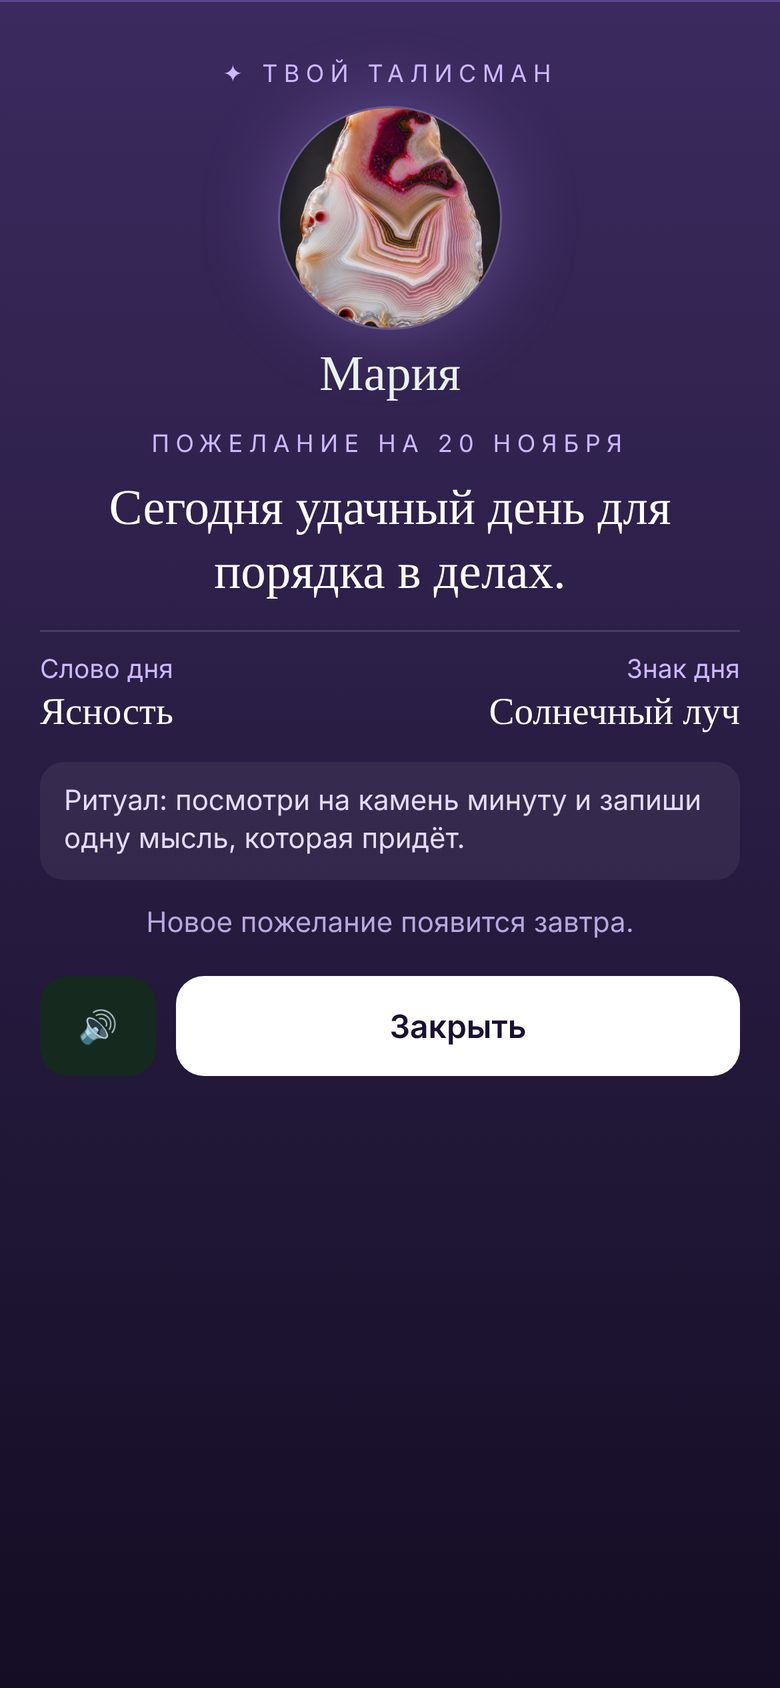
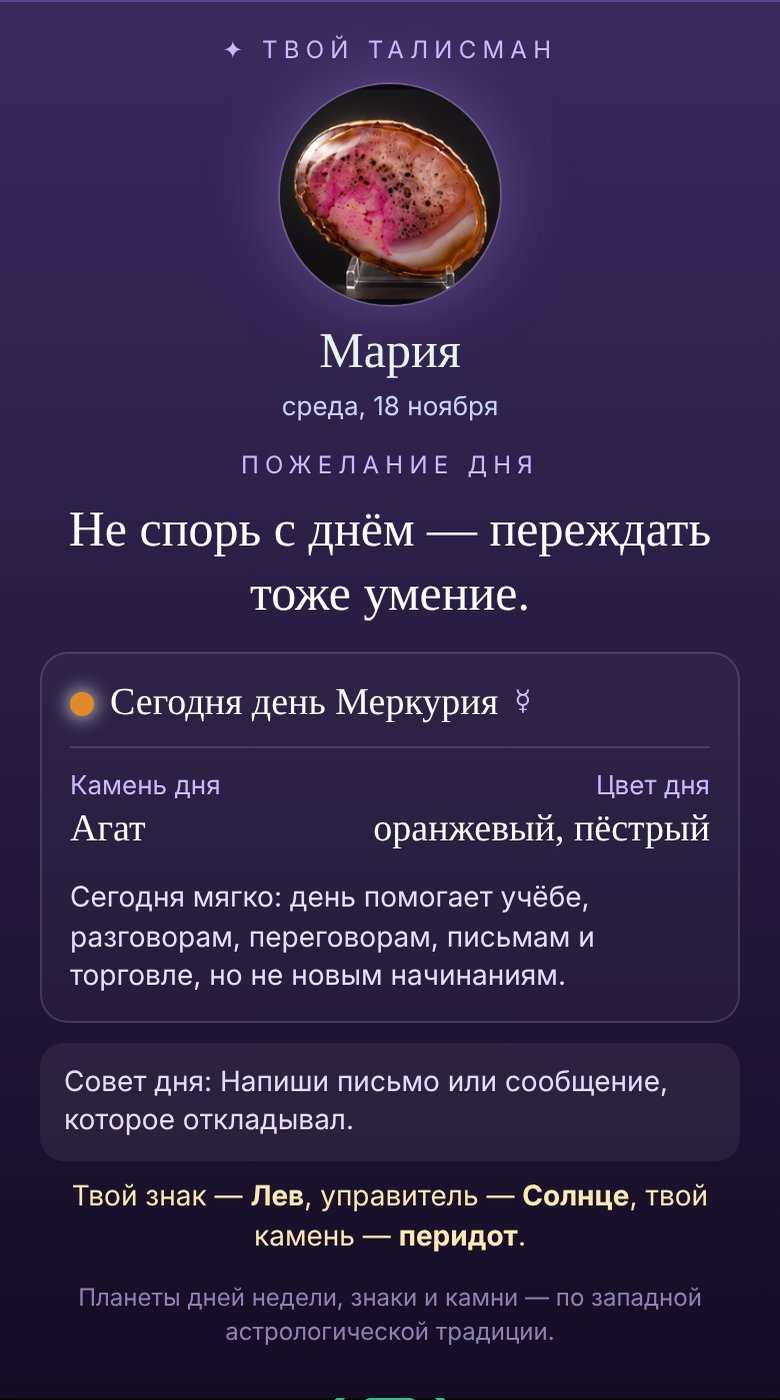
Главная: блок смены режима без красной линии; новый скриншот Талисмана (западная астрология, без ритуала)
Claude-Session: https://claude.ai/code/session_01RQWKGAzaMxzvUY2sXW3AVN

diff --git a/index.html b/index.html
@@ -131,7 +131,7 @@ footer .langs button[aria-pressed=true]{color:#fff;border-color:#fff}
 .ui .txt{padding:0 24px}
 .phones{display:flex;gap:18px;overflow-x:auto;scroll-snap-type:x mandatory;scrollbar-width:none;padding:34px 24px 6px;margin-top:6px}
 .phones::-webkit-scrollbar{display:none}
-.swap{max-width:560px;margin:40px auto 0;background:#fff;border:1px solid var(--line);border-top:3px solid var(--red);padding:30px 22px 26px;text-align:center}
+.swap{max-width:560px;margin:40px auto 0;background:#fff;border:1px solid var(--line);padding:30px 22px 26px;text-align:center}
 .swap h3{font:500 26px/1.2 "Cormorant Garamond",var(--serif);margin:0 0 10px;color:var(--ink);letter-spacing:0;text-transform:none}
 .swap p{color:var(--mute);max-width:44ch;margin:0 auto 20px}
 .swap a.go{display:inline-block;background:var(--red);color:#fff;font:600 13px/1 Manrope,-apple-system,sans-serif;letter-spacing:.14em;text-transform:uppercase;padding:18px 30px;text-decoration:none}

diff --git a/shop/index.html b/shop/index.html
@@ -29,7 +29,7 @@ a{color:inherit;text-decoration:none}img{display:block;max-width:100%}
 .how{background:var(--stone);text-align:center;padding:56px 24px;margin-top:40px}
 .how ol{list-style:none;display:grid;gap:26px;max-width:960px;margin:30px auto 0}
 .how li p{color:var(--mute);max-width:32ch;margin:6px auto 0}
-.swap{max-width:960px;margin:34px auto 0;background:#fff;border:1px solid var(--line);border-top:3px solid var(--red);padding:30px 22px 26px;text-align:center}
+.swap{max-width:960px;margin:34px auto 0;background:#fff;border:1px solid var(--line);padding:30px 22px 26px;text-align:center}
 .swap h3{font:500 26px/1.2 "Cormorant Garamond",var(--serif);margin:0 0 10px;color:var(--ink)}
 .swap p{color:var(--mute);max-width:44ch;margin:0 auto 18px}
 .swap .modes{display:flex;flex-wrap:wrap;justify-content:center;gap:8px;margin:0 0 22px}
